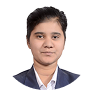
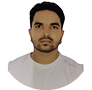
first commit

diff --git a/frontend/src/Components/Experts.jsx b/frontend/src/Components/Experts.jsx
@@ -15,6 +15,12 @@ export default function ExpertsSlider() {
       img: "/Ex5.png",
     },
     { name: "Tapas Sarkar", role: "Ex-NITTTR", img: "/Ex4.png" },
+
+    { name: "Biplab Maity", role: "Ex-Vodafone Idea", img: "/Ex6.png" },
+    { name: "Arun Sahu", role: "Ex-HMEL | HPCL | Adani Group", img: "/Ex7.png" },
+    { name: "Stuti Nayak Panda", role: "Women Entrepreneur", img: "/Ex8.png" },
+    { name: "Dr. Namburi L A Amarababu", role: "Ex-Cipla | Dr. Reddy's", img: "/Ex9.png" },
+    { name: "Dr. Reetha Dinesh", role: "Ex-Corporate Trainer", img: "/Ex10.png" },
   ];
 
   const loopExperts = [...experts, ...experts];
@@ -103,7 +109,7 @@ export default function ExpertsSlider() {
             {loopExperts.map((expert, index) => (
               <div
                 key={index}
-                className="min-w-[220px] h-[240px] bg-white rounded-2xl p-6 text-center cursor-pointer"
+                className="min-w-[220px] h-[260px] bg-white rounded-2xl p-6 text-center cursor-pointer"
               >
                 <img
                   src={expert.img}

diff --git a/frontend/src/Components/InternsSlider.jsx b/frontend/src/Components/InternsSlider.jsx
@@ -36,6 +36,48 @@ export default function InSlider() {
       desc: "₹5 LPA",
       img: "/In5.png",
     },
+    {
+      name: "Praveen Parashar",
+      role: "Placed at HYUNDAI",
+      desc: "₹5 LPA",
+      img: "/In6.png",
+    },
+    {
+      name: "Sinana K",
+      role: "Placed at Infosys",
+      desc: "₹5 LPA",
+      img: "/In7.png",
+    },
+    {
+      name: "Sameer Khan",
+      role: "Placed at PARLE",
+      desc: "₹5 LPA",
+      img: "/In8.png",
+    },
+    {
+      name: "Amit Kumar Mahato",
+      role: "Placed at upDate",
+      desc: "₹5 LPA",
+      img: "/In9.png",
+    },
+    {
+      name: "Mayur Digambar ",
+      role: "Placed at AlignerAi",
+      desc: "₹5 LPA",
+      img: "/In10.png",
+    },
+    {
+      name: "Sandhya Pal",
+      role: "Placed at UCO BANK",
+      desc: "₹5 LPA",
+      img: "/In11.png",
+    },
+    {
+      name: "Sanjana Bhanajdeo",
+      role: "Placed at UCO BANK",
+      desc: "₹5 LPA",
+      img: "/In12.png",
+    },
   ];
 
   const loopIn = [...In, ...In];
